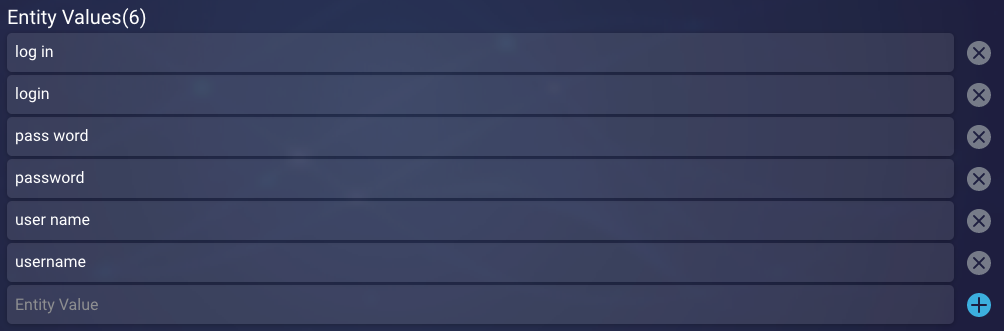
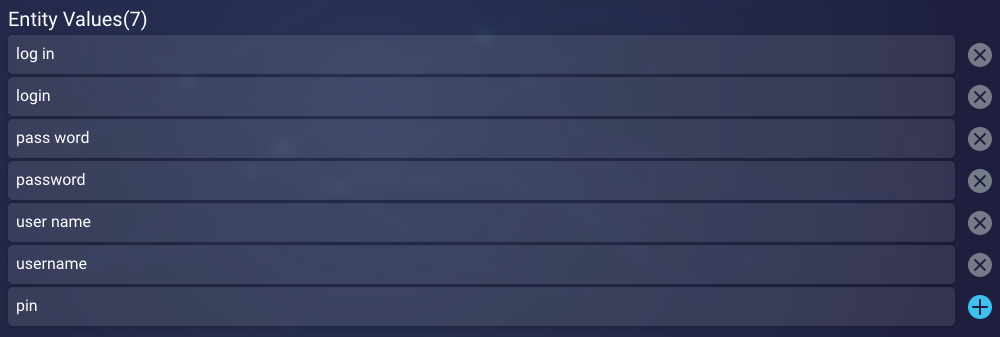
BA-3363 KB enhancements

diff --git a/pages/documents/ConversationalAI/KnowledgeBase/knowledgeBaseTutorial.md b/pages/documents/ConversationalAI/KnowledgeBase/knowledgeBaseTutorial.md
@@ -27,7 +27,7 @@ This tutorial is designed to familiarize you with Knowledge Base.
     * **Title**: Enter a title that is a complete sentence, e.g., "I can't log in to my account."
     * **Intent Qualifiers**: Add the following intent qualifiers (training phrases) that the NLU engine will use to match the article to user input:
 
-    <img class="fancyimage" style="width:700px" src="img/ConvoBuilder/kb_tutorial3.png">
+    <img class="fancyimage" style="width:750px" src="img/ConvoBuilder/kb_tutorial3.png">
 
     * **Summary**: Enter the following brief message to be sent to the user:
 
@@ -39,7 +39,7 @@ This tutorial is designed to familiarize you with Knowledge Base.
 
         <img class="fancyimage" style="width:300px" src="img/ConvoBuilder/kb_tutorial2.png">
 
-        The tags assist the NLU engine in matching intents, your content, and the user input by highlighting the key sections of the user's message in regards to the intents that you created.
+        Tags help to increase the accuracy of Knowledge Base search results by highlighting the key sections of the user's message in regard to the intents that you created.
 
 6. Click **Save**.
 
@@ -49,13 +49,13 @@ Back in the search view, you should now see your new article, which should look 
 
 Note that the article has a “Pending” notation on it. We add this for new articles and for articles created by agents using the Agent Advisor widget, so that a manager or supervisor can approve them before they are included in the results.
 
-Click **Approve** to continue.
+To continue with this tutorial, click the **Approve** link over on the right.
 
 ### Step 3: Train and tune
 
 Let’s test our knowledge base and see how the NLU will return results.
 
-1. In the search view, type something close to your article’s title or intent qualifiers. In the example we gave above, we'll type something like “my login doesn't work."
+1. In the search view, type something close to your article’s title or intent qualifiers, e.g., “my login doesn't work."
 
     <img class="fancyimage" style="width:800px" src="img/ConvoBuilder/kb_tutorial5.png">
 
@@ -65,7 +65,7 @@ Let’s test our knowledge base and see how the NLU will return results.
     
     <img class="fancyimage" style="width:800px" src="img/ConvoBuilder/kb_tutorial6.png">
 
-    This is different enough that the NLU engine will return as FAIR PLUS. Generally, we set the threshold to GOOD, so, in this new example, the article won't be shown to a user. However, we can easily “train” the article to respond to this input regardless by clicking the thumbs-up icon right beneath the result.
+    This is different enough that the NLU engine will return as FAIR PLUS. Generally,in a Knowledge Base integration in a bot, we set the threshold to GOOD, so, in this new example, the article won't be shown to a user. However, we can easily “train” the article to respond to this input by clicking the thumbs-up icon that's beneath the result.
 
 3. Click **thumbs up**.
     
@@ -125,8 +125,8 @@ In your article, go ahead and replace any word where you want the "credentials" 
 <img class="fancyimage" style="width:800px" src="img/ConvoBuilder/kb_tutorial8.png">
 
 {: .important}
-You don't need to enter entities using all capital letters like we've done here, but it helps to identify the words that are entities.
+You don't need to enter entities using all capital letters like we've done here, but it does help you to identify the words that are entities.
 
-Now, when someone says an utterance that includes any of the entity synonyms, they should match. Try entering, "My login doesn't work." This should return with a score of VERY GOOD.
+Now, when someone says an utterance that includes any of the entity synonyms, they should match. Try entering, "My pin doesn't work." This should return with a score of GOOD.
 
 <div class="important">The entity values are cached, so if you add a number of entities but they aren't matching your articles right away, wait a minute or two. The cache should update.</div>
